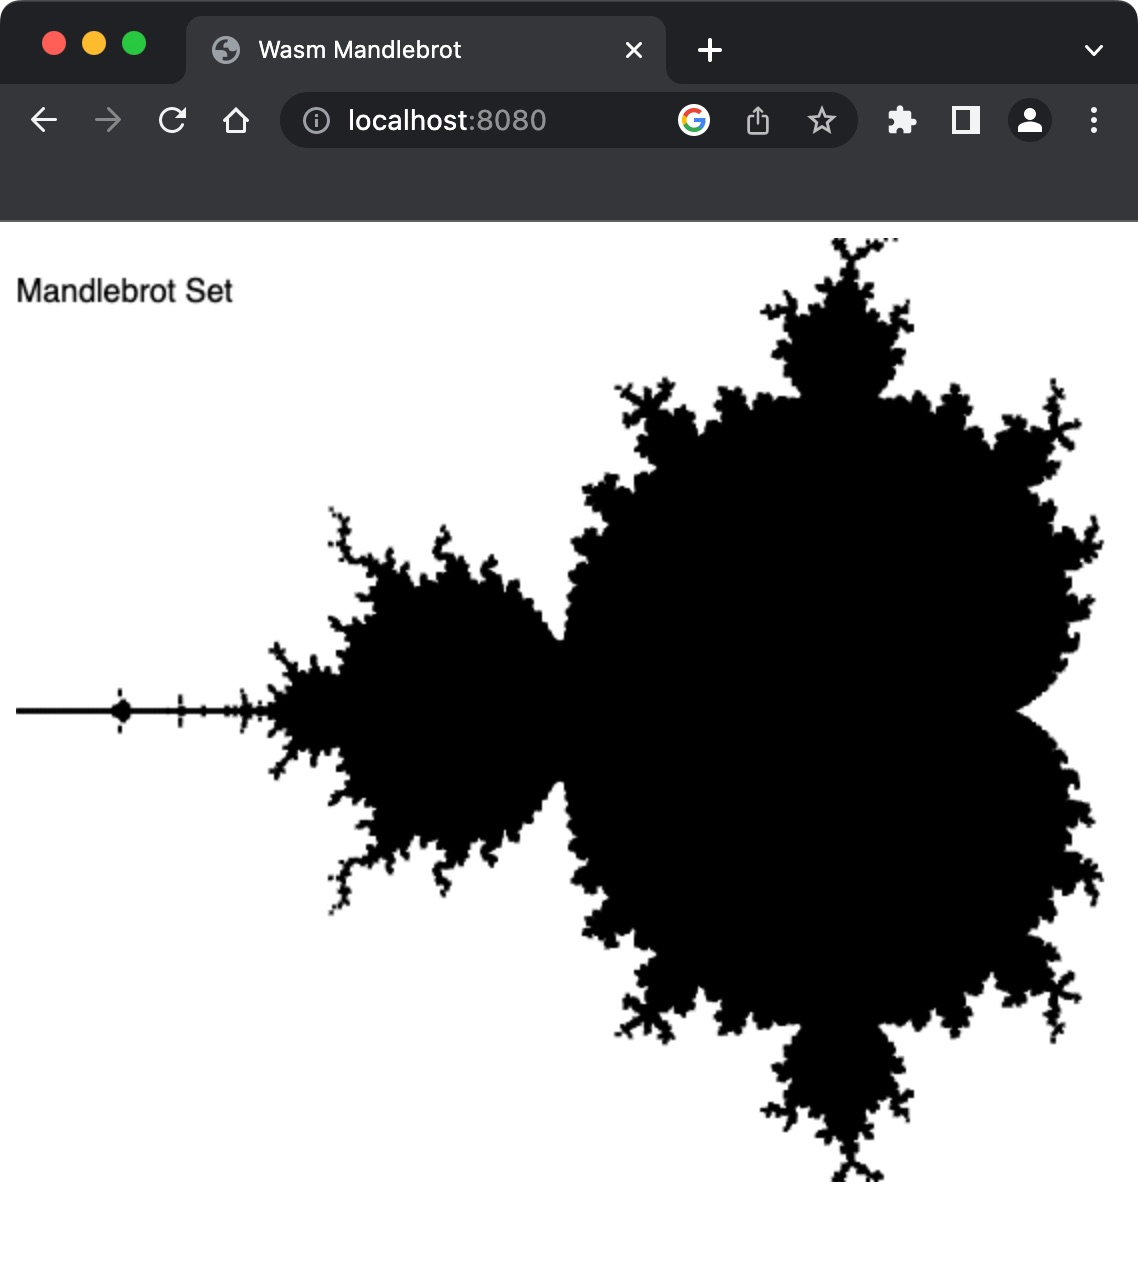
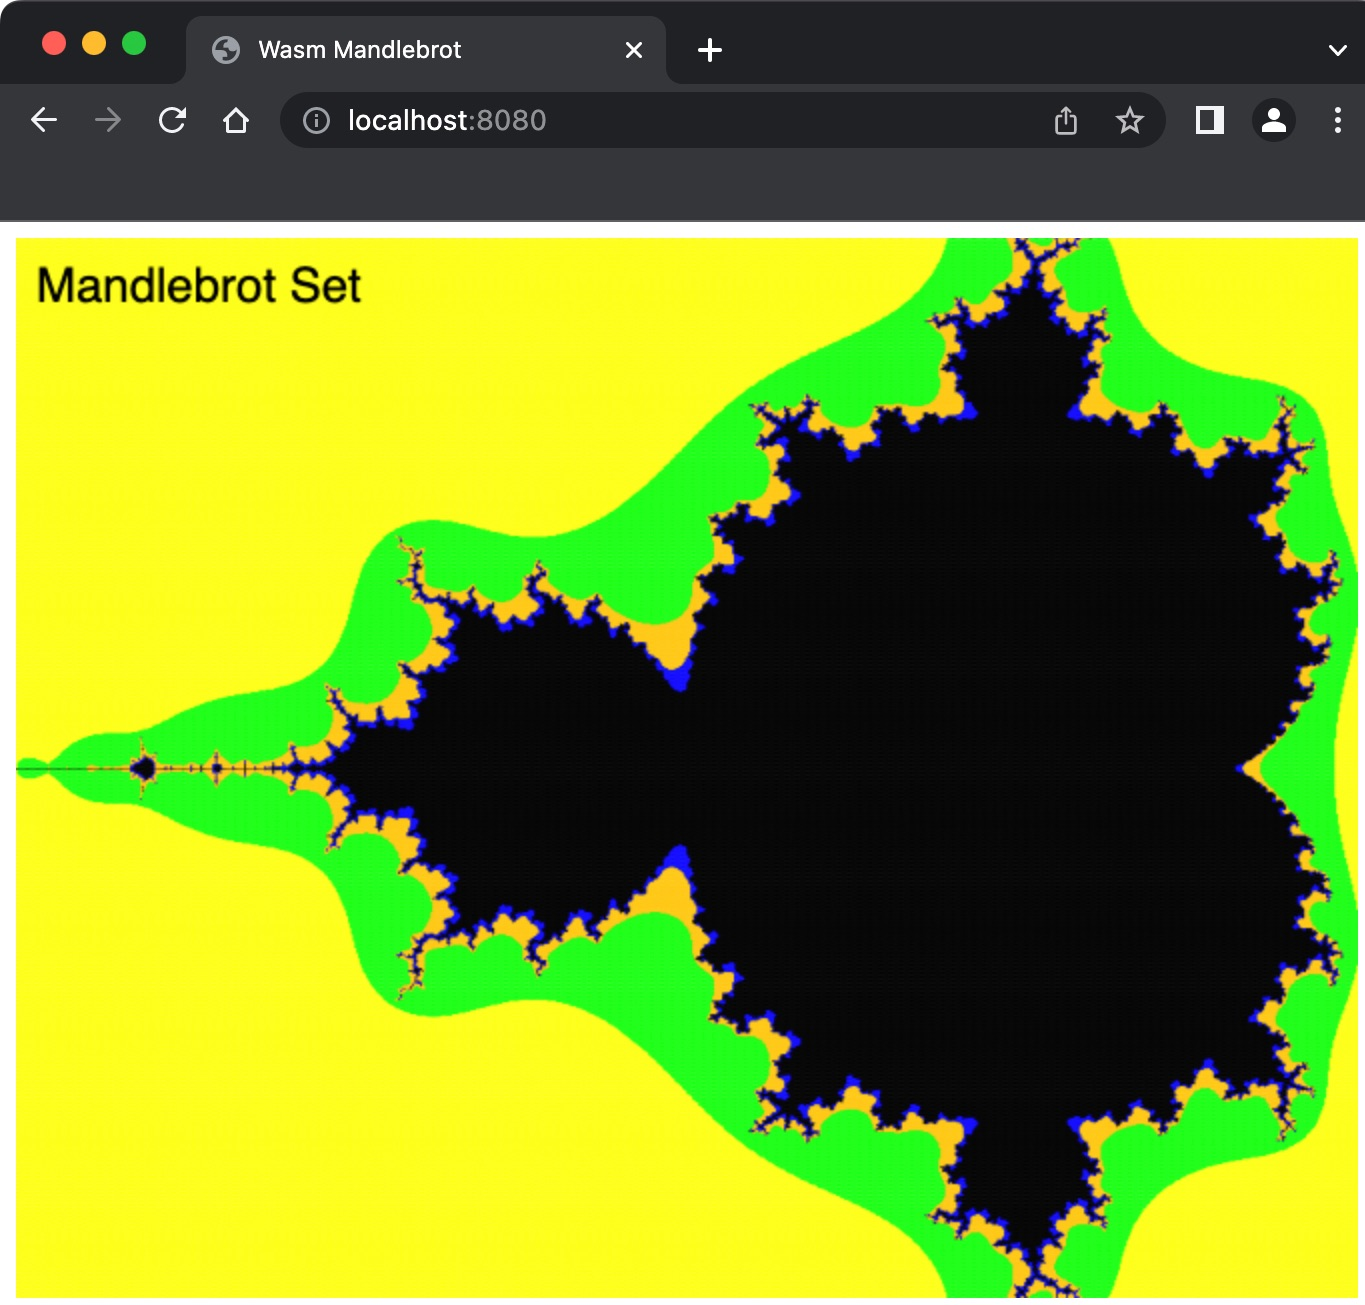
Wahoo, it's in colour

diff --git a/src/wasmMain/kotlin/canvas.kt b/src/wasmMain/kotlin/canvas.kt
@@ -3,6 +3,10 @@ import kotlinx.browser.window
 import org.w3c.dom.*
 import org.w3c.dom.events.*
 
+// Nasty hack as calling ctx.fillStyle hits a type bug
+@JsFun("x => x")
+external fun stringToDynamic(value: String) : Dynamic
+
 class Canvas {
   val canvas = document.getElementById("display") as HTMLCanvasElement
   val ctx = canvas.getContext("2d")!! as CanvasRenderingContext2D
@@ -21,8 +25,8 @@ class Canvas {
 
   fun title() {
     ctx.save()
-    ctx.font = "16px sans-serif"
-    ctx.fillText("Mandlebrot Set", 0.0, 32.0)
+    ctx.font = "24px sans-serif"
+    ctx.fillText("Mandlebrot Set", 10.0, 32.0)
     ctx.restore()
   }
 
@@ -36,14 +40,14 @@ class Canvas {
     val Y = canvas.height.toDouble() / 800.0
  
     ctx.save()
- //   when(color) {
- //     in 1..5   -> ctx.fillStyle = cols(Color.YELLOW).
- //     in 6..10  -> ctx.fillStyle = cols(Color.GREEN).
- //     in 11..15 -> ctx.fillStyle = cols(Color.ORANGE)
- //     in 15..19 -> ctx.fillStyle = cols(Color.BLUE)
- //     else      -> ctx.fillStyle = cols(Color.BLACK)
- //   }
-    if (color==20) { ctx.strokeRect((x.toDouble() * X), (y.toDouble() * Y), 1.0, 1.0) }
+    when(color) {
+      in 0..4   -> ctx.fillStyle = stringToDynamic(cols(Color.YELLOW))
+      in 5..9  -> ctx.fillStyle = stringToDynamic(cols(Color.GREEN))
+      in 10..14 -> ctx.fillStyle = stringToDynamic(cols(Color.ORANGE))
+      in 15..19 -> ctx.fillStyle = stringToDynamic(cols(Color.BLUE))
+      else      -> ctx.fillStyle = stringToDynamic(cols(Color.BLACK))
+     }
+     ctx.fillRect((x.toDouble() * X), (y.toDouble() * Y), 1.0, 1.0) 
     ctx.restore()
   }
 }

diff --git a/src/wasmMain/kotlin/mandelbrot.kt b/src/wasmMain/kotlin/mandelbrot.kt
@@ -24,7 +24,6 @@ fun main() {
   
   val canvas = Canvas()
   canvas.clear()
-  canvas.title()
   val size = canvas.getSize()
  
   var x = 0
@@ -44,4 +43,5 @@ fun main() {
     }
     y += 1  
   }
+  canvas.title()
 }
